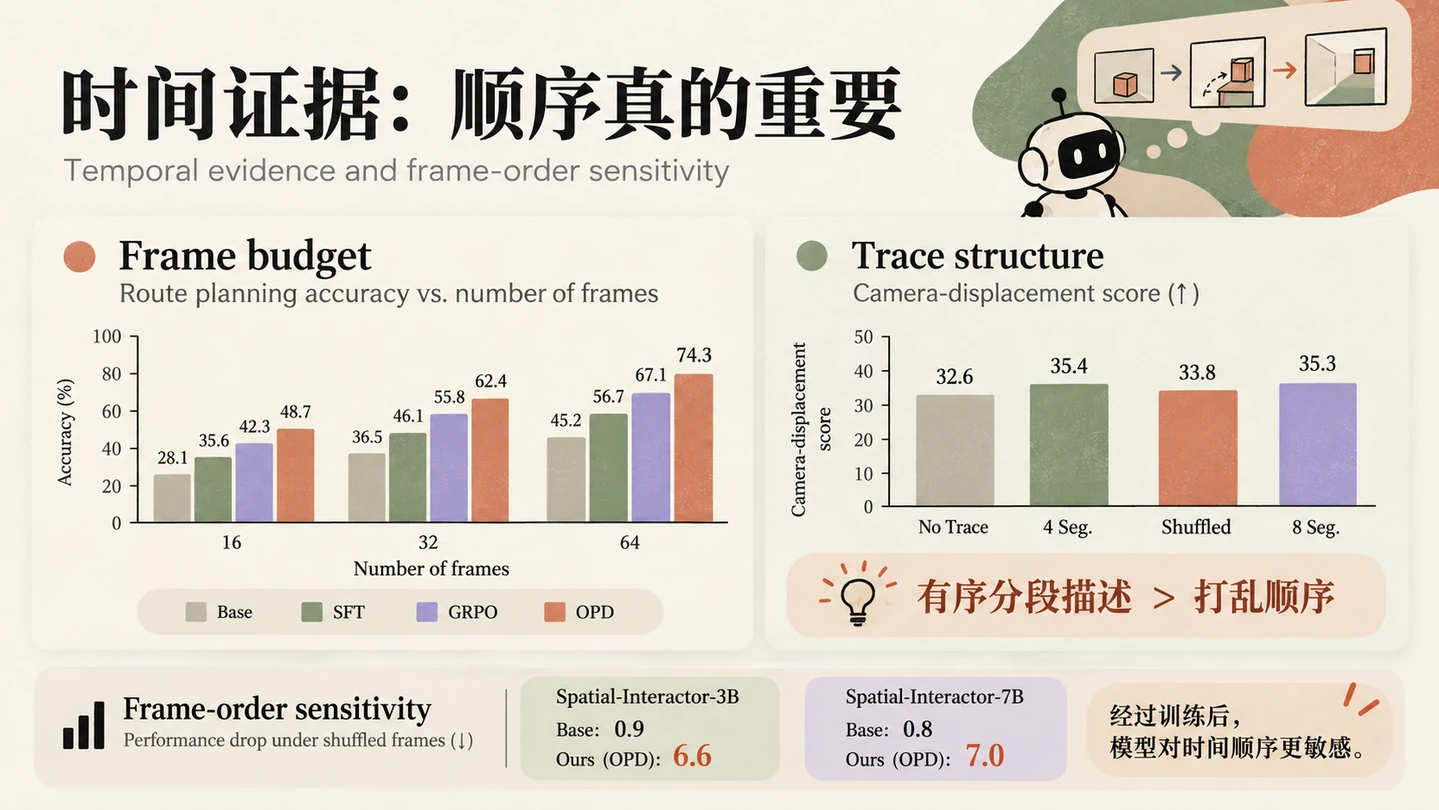
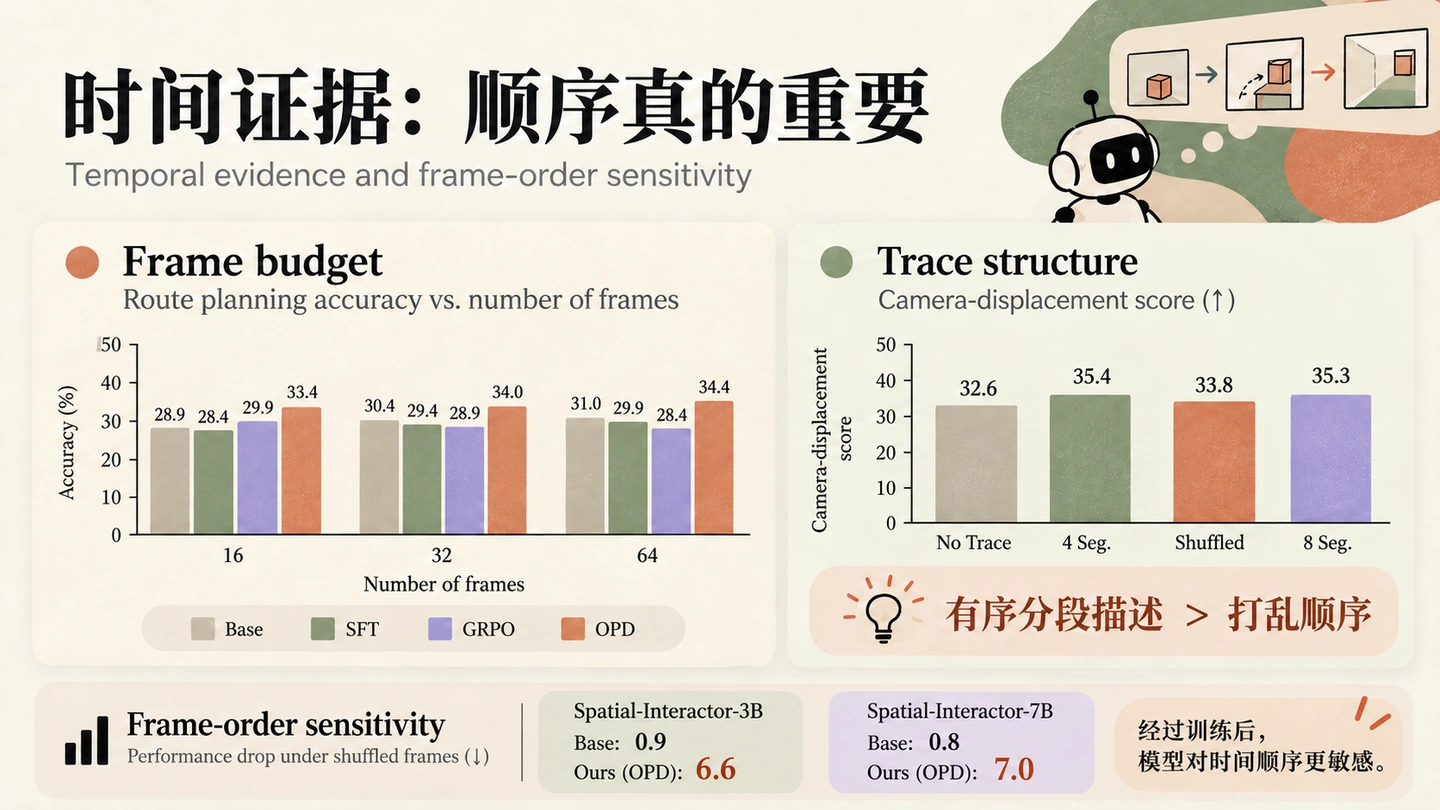
Replace presentation page 18

diff --git a/app.js b/app.js
@@ -43,9 +43,9 @@
     "Main results",
     "Cross-benchmark transfer",
     "Ablation",
+    "Training analysis",
     "Temporal evidence",
-    "Closed-loop interaction",
-    "Qualitative cases",
+    "Closed-loop interaction and qualitative cases",
     "Takeaway",
   ];
   let storyIndex = 0;
@@ -55,13 +55,15 @@
   const storyProgress = $("story-progress");
   const storyThumbs = $("story-thumbs");
   if (storySlide && storyPageNumber && storyPageTitle && storyProgress && storyThumbs) {
+    const storyAsset = (index) =>
+      `assets/presentation/slide-${String(index + 1).padStart(2, "0")}.webp${index === 17 ? "?v=20260915" : ""}`;
     storyPages.forEach((title, index) => {
       const button = element("button", undefined, "story-thumb");
       button.type = "button";
       button.dataset.storyIndex = String(index);
       button.setAttribute("aria-label", `Open presentation page ${index + 1}: ${title}`);
       const image = document.createElement("img");
-      image.src = `assets/presentation/slide-${String(index + 1).padStart(2, "0")}.webp`;
+      image.src = storyAsset(index);
       image.alt = "";
       image.loading = index < 4 ? "eager" : "lazy";
       button.append(image, element("span", String(index + 1).padStart(2, "0")));
@@ -71,7 +73,7 @@
     function renderStory(nextIndex, animate = true) {
       storyIndex = (nextIndex + storyPages.length) % storyPages.length;
       const page = String(storyIndex + 1).padStart(2, "0");
-      storySlide.src = `assets/presentation/slide-${page}.webp`;
+      storySlide.src = storyAsset(storyIndex);
       storySlide.alt = `Presentation page ${storyIndex + 1} of ${storyPages.length}: ${storyPages[storyIndex]}`;
       storyPageNumber.textContent = page;
       storyPageTitle.textContent = storyPages[storyIndex];

diff --git a/index.html b/index.html
@@ -20,7 +20,7 @@
     <link rel="stylesheet" href="styles.css?v=20260915" />
     <script src="data.js" defer></script>
     <script src="examples.js" defer></script>
-    <script src="app.js" defer></script>
+    <script src="app.js?v=20260915" defer></script>
     <script src="media.js" defer></script>
   </head>
   <body>
